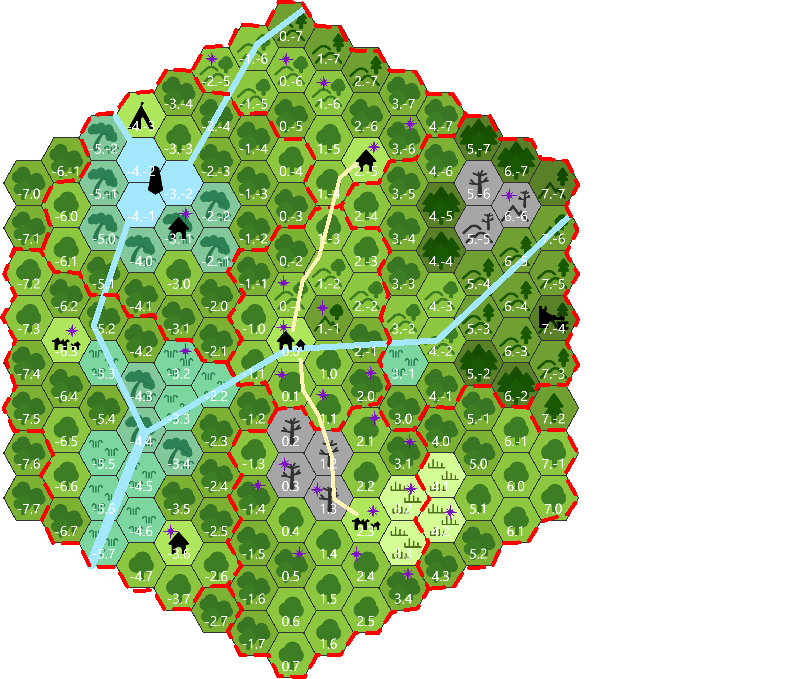
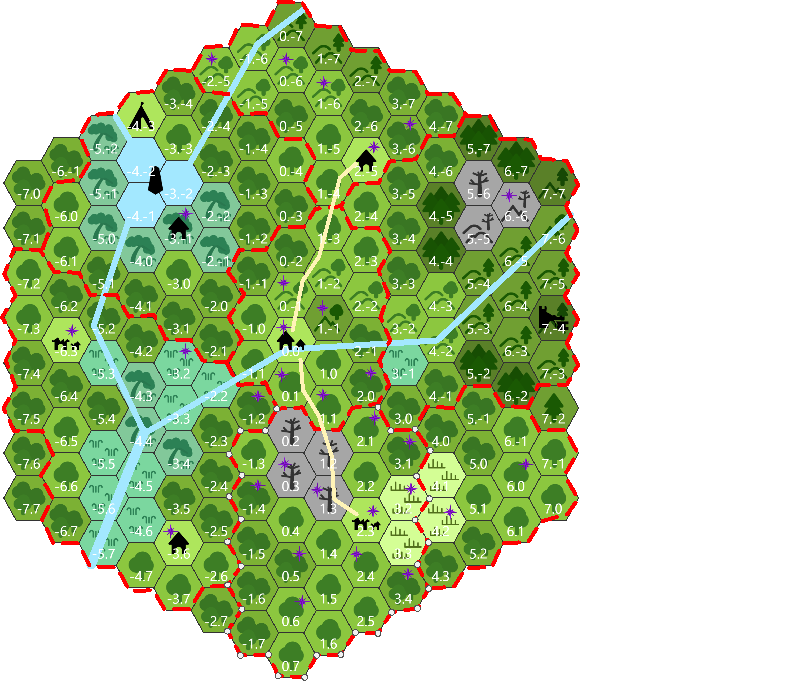
session 4 recap

diff --git a/Obsidian/Lightseeker/06 Hexmap/Key.md b/Obsidian/Lightseeker/06 Hexmap/Key.md
@@ -1,23 +1,23 @@
 ##### -2/2,-7,7
 
-|     |         -2          |     -1      |                        0                        |                        1                        |                                        2                                         |
-| --- | :-----------------: | :---------: | :---------------------------------------------: | :---------------------------------------------: | :------------------------------------------------------------------------------: |
-| -7  |                     |             |                                                 |                                                 |                                                                                  |
-| -6  |                     |             |               [[Xandrine Palace]]               |            [[Alexander's Fountain]]             |                                                                                  |
-| -5  | [[Immindell's Lab]] |             |                                                 |                                                 |                                 [[Nisa Village]]                                 |
-| -4  |                     |             |                                                 |                                                 |                                                                                  |
-| -3  |                     |             |                                                 |                                                 |                                                                                  |
-| -2  |                     |             |                                                 |                                                 |                                                                                  |
-| -1  |                     |             |           [[Cliffside Wizard House]]            | [[Whiteshell Caverns]],<br>[[Seal of the Deep]] |                                                                                  |
-| 0   |                     |             |               [[Maplemoor Town]]                |                                                 | A Stone Fountain Surrounded by Trees, drinking it allows you to ask one question |
-| 1   |                     |             |            Statue of a Fallen Knight            |         [[Harvington Ancestral Grave]]          |                           Rhalgar's Fang Pioneer Camp                            |
-| 2   |                     |             |                                                 |                                                 |                                                                                  |
-| 3   |                     |             |      A Small Shrine with Red Glowing Runes      |            [[Vain Gardens of Uerna]]            |                            [[Chomoor Village Ruins]]                             |
-| 4   |                     | Amber Trees |                                                 |                                                 |                 Underground Caverns that feel warm to the touch                  |
-| 5   |                     |             | Tree with Insignia,<br>Statue of a Kenku Ranger |                                                 |                                                                                  |
-| 6   |                     |             |                                                 |                                                 |                                                                                  |
-| 7   |                     |             |                                                 |                                                 |                                                                                  |
-|     |                     |             |                                                 |                                                 |                                                                                  |
+|     |         -2          |             -1              |                        0                        |                        1                        |                                        2                                         |
+| --- | :-----------------: | :-------------------------: | :---------------------------------------------: | :---------------------------------------------: | :------------------------------------------------------------------------------: |
+| -7  |                     |                             |                                                 |                                                 |                                                                                  |
+| -6  |                     |                             |               [[Xandrine Palace]]               |            [[Alexander's Fountain]]             |                                                                                  |
+| -5  | [[Immindell's Lab]] |                             |                                                 |                                                 |                                 [[Nisa Village]]                                 |
+| -4  |                     |                             |                                                 |                                                 |                                                                                  |
+| -3  |                     |                             |                                                 |                                                 |                                                                                  |
+| -2  |                     |                             |                                                 |                                                 |                                                                                  |
+| -1  |                     |                             |           [[Cliffside Wizard House]]            | [[Whiteshell Caverns]],<br>[[Seal of the Deep]] |                                                                                  |
+| 0   |                     |                             |               [[Maplemoor Town]]                |                                                 | A Stone Fountain Surrounded by Trees, drinking it allows you to ask one question |
+| 1   |                     |                             |            Statue of a Fallen Knight            |         [[Harvington Ancestral Grave]]          |                           Rhalgar's Fang Pioneer Camp                            |
+| 2   |                     | Rhalgar's Fang Pioneer Camp |                                                 |                                                 |                                                                                  |
+| 3   |                     |                             |      A Small Shrine with Red Glowing Runes      |            [[Vain Gardens of Uerna]]            |                            [[Chomoor Village Ruins]]                             |
+| 4   |                     |         Amber Trees         |                                                 |                                                 |                 Underground Caverns that feel warm to the touch                  |
+| 5   |                     |                             | Tree with Insignia,<br>Statue of a Kenku Ranger |                                                 |                                                                                  |
+| 6   |                     |                             |           Rhalgar's Fang Pioneer Camp           |                                                 |                                                                                  |
+| 7   |                     |                             |                                                 |                                                 |                                                                                  |
+|     |                     |                             |                                                 |                                                 |                                                                                  |
 
 ##### -7/-3,-7,7
 
@@ -49,7 +49,7 @@
 | -3  |                                                          |                                                |     |                    |     |
 | -2  |                                                          |                                                |     |                    |     |
 | -1  |                                                          |                                                |     |                    |     |
-| 0   |                                                          |                                                |     |                    |     |
+| 0   |                                                          |                                                |     |    Rhalinshire     |     |
 | 1   |                  Airship Atop the Trees                  |                                                |     |                    |     |
 | 2   |                  Abandoned Wheat Fields                  | Giant Tree at the center of a field of flowers |     |                    |     |
 | 3   |                                                          |                                                |     |                    |     |

diff --git a/Obsidian/Lightseeker/04 Session Recaps/Session 4 Recap.md b/Obsidian/Lightseeker/04 Session Recaps/Session 4 Recap.md
@@ -1,0 +1,37 @@
+---
+share_link: https://share.note.sx/ygbqu7or#espucnYLAWdGYR/60ULaYyGShc1aKg1VIsM1bvvv2ps
+share_updated: 2024-06-16T07:58:39+07:00
+---
+(Devi, Edwin, Ien, Mark)
+## Spring 4
+#### Chomoor in Ruins
+- Priest Garmund's family are all dead, except for his son, Garmund Jr.
+- Chayan used magic to locate Garmund Jr.
+- Fergus is reminded of a strange peculiarity during the gnoll raid on Maplemoor.
+	- The gnolls were focused on taking corpses instead of valuables.
+- Xana went to scour the studies of the ruined mansions and found letters between the noble and a spy they've planted in Maplemoor.
+	- The church of Minareth had a disagreement with the Maplemoor higher ups.
+- Kris had a conversation with Priest Garmund.
+	- He told Kris of a troubling conversation he had overheard in the church. A few priests are taking bribes from noblemen.
+	- Priest Garmund is planning to leave the church after this is all over.
+
+## Spring 5
+
+#### Buried Temple to a Sun God
+- The party located Garmund Jr. to be inside the buried temple.
+- The master of the Jackalweres, Uerna, has captured slaves.
+- Most of the slaves are locked in a metal cage, while others serve as cooks and dancers.
+	- Master Uerna likes beauty in general.
+- The party raided the buried temple, releasing the captives and fighting Uerna herself.
+	- Uerna's body is that of a beautiful woman mixed with a cow's body. (Imagine centaurs but with a cow instead)
+	- Uerna seemed infatuated with Fergus' patron, C'tar. Using that as a distraction, the party escaped with the slaves.
+- The party quickly rushed back to Maplemoor, saving only the child slaves.
+	- The rest of the slaves were unfortunately cut down during the chase.
+
+#### Aftermath
+- The child slaves are taken care of by the church's nuns.
+- Priest Garmund thanks the party and gives them several rewards.
+	- 500gp
+	- **Hunter Orb.** An orb with lines and patterns on it. The priest received it from a good hunter friend who had passed away. It seems to be an important artifact for hunters.
+		![[81iCK+fqN2L._UF1000,1000_QL80_.jpg]]
+## Level Up to Level 4
